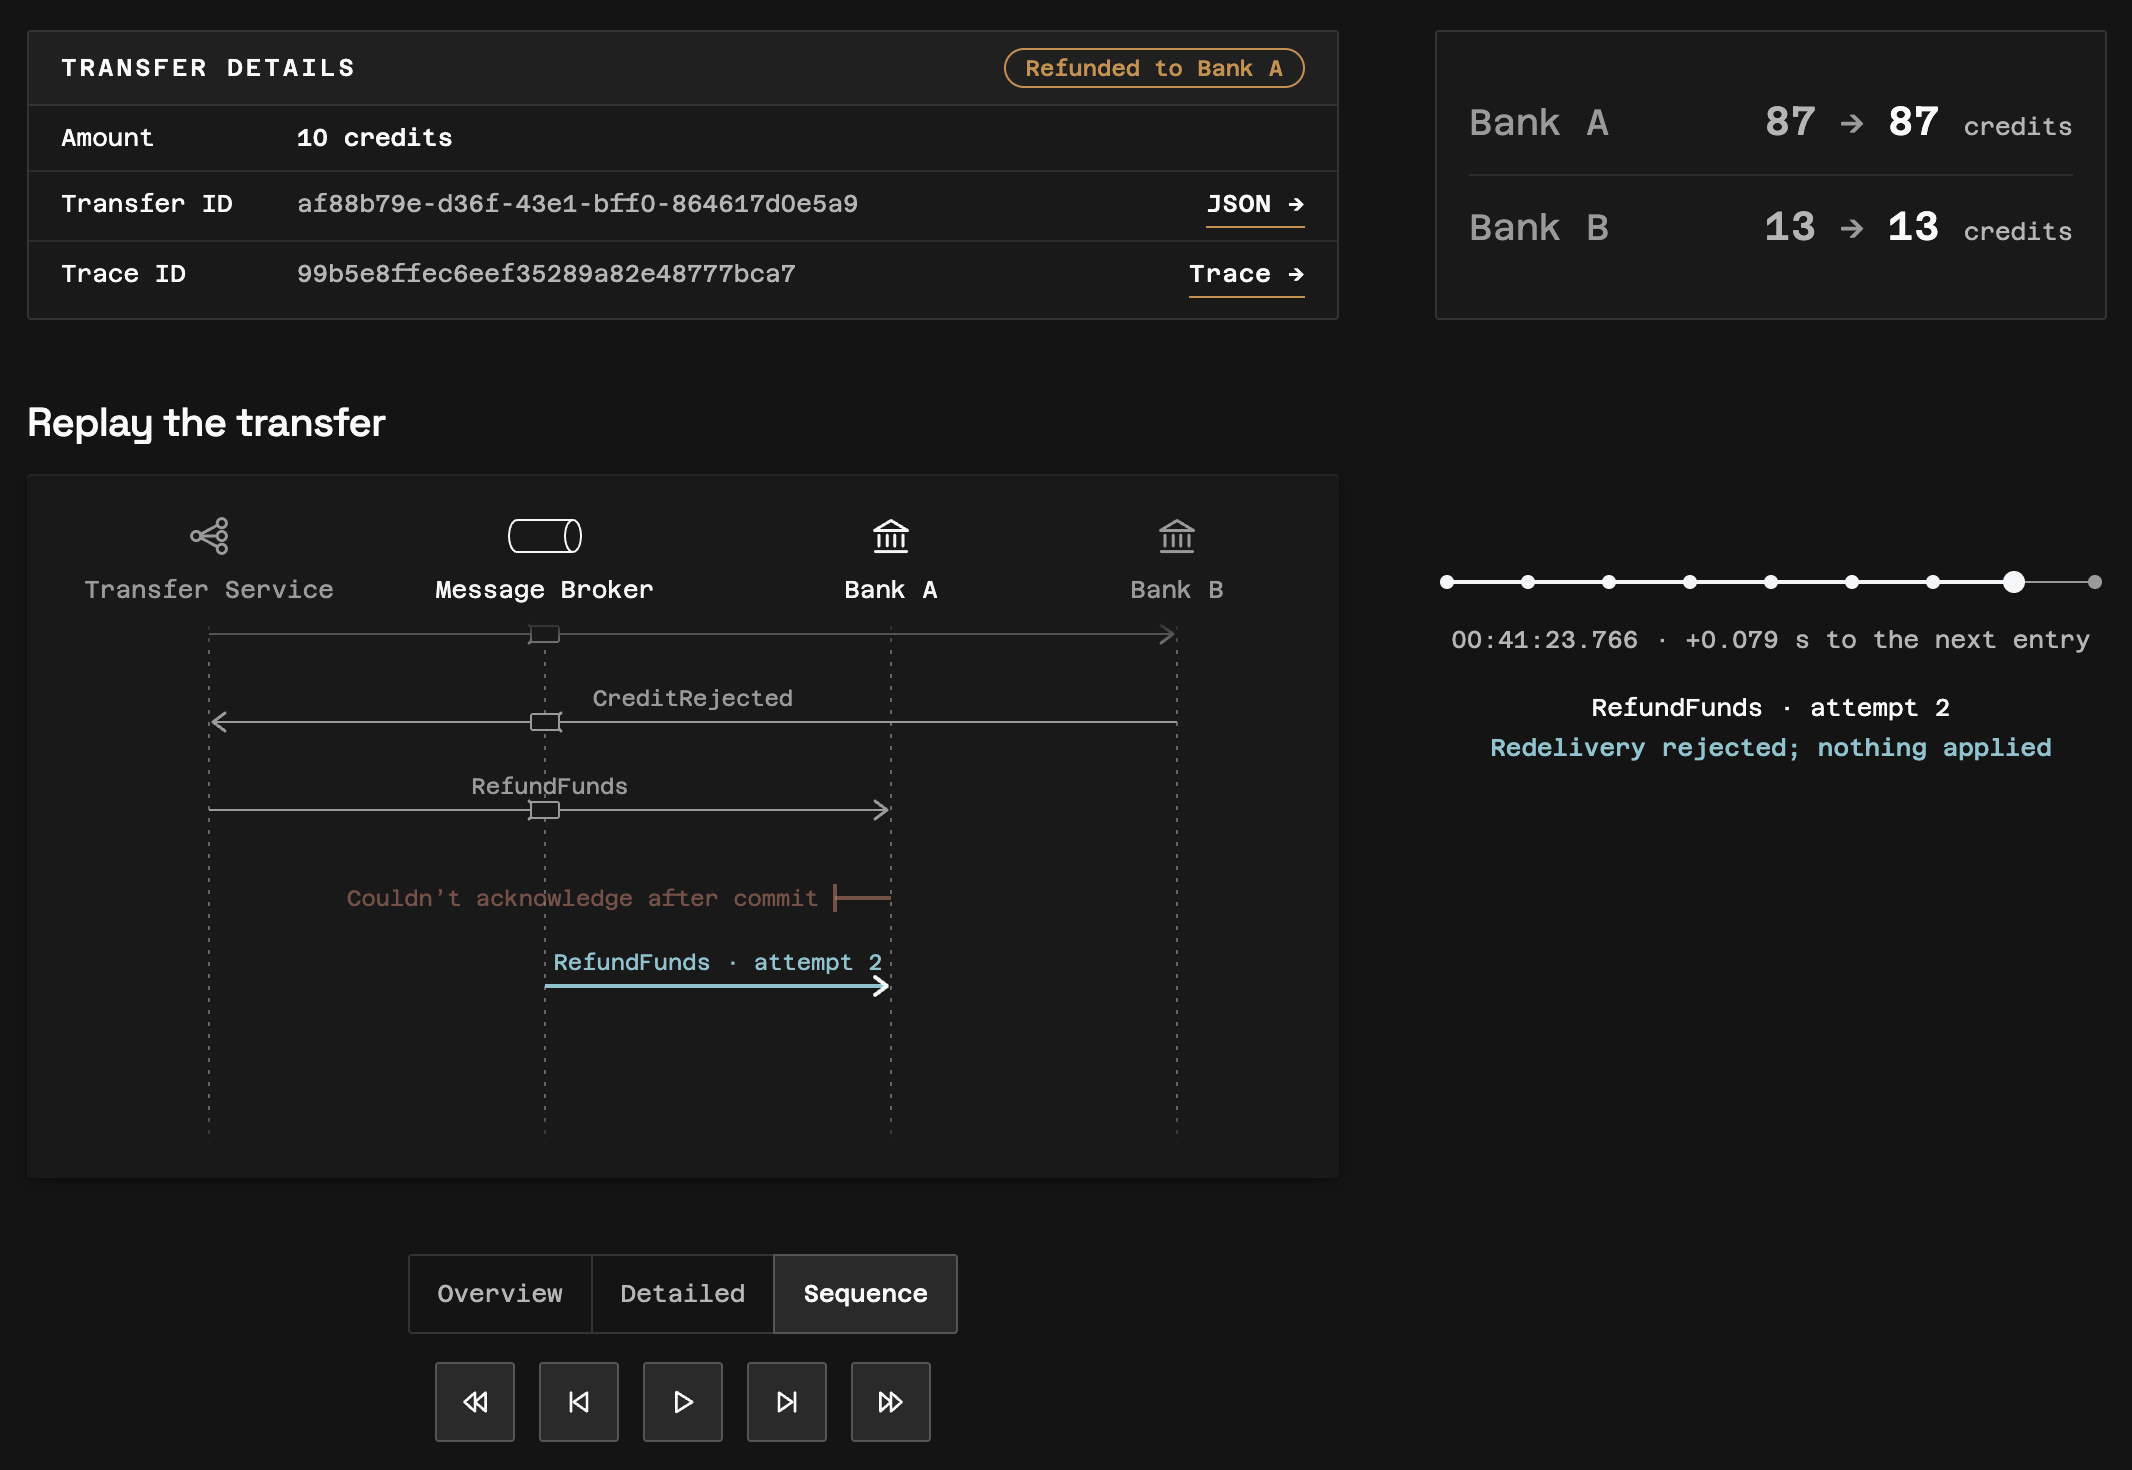
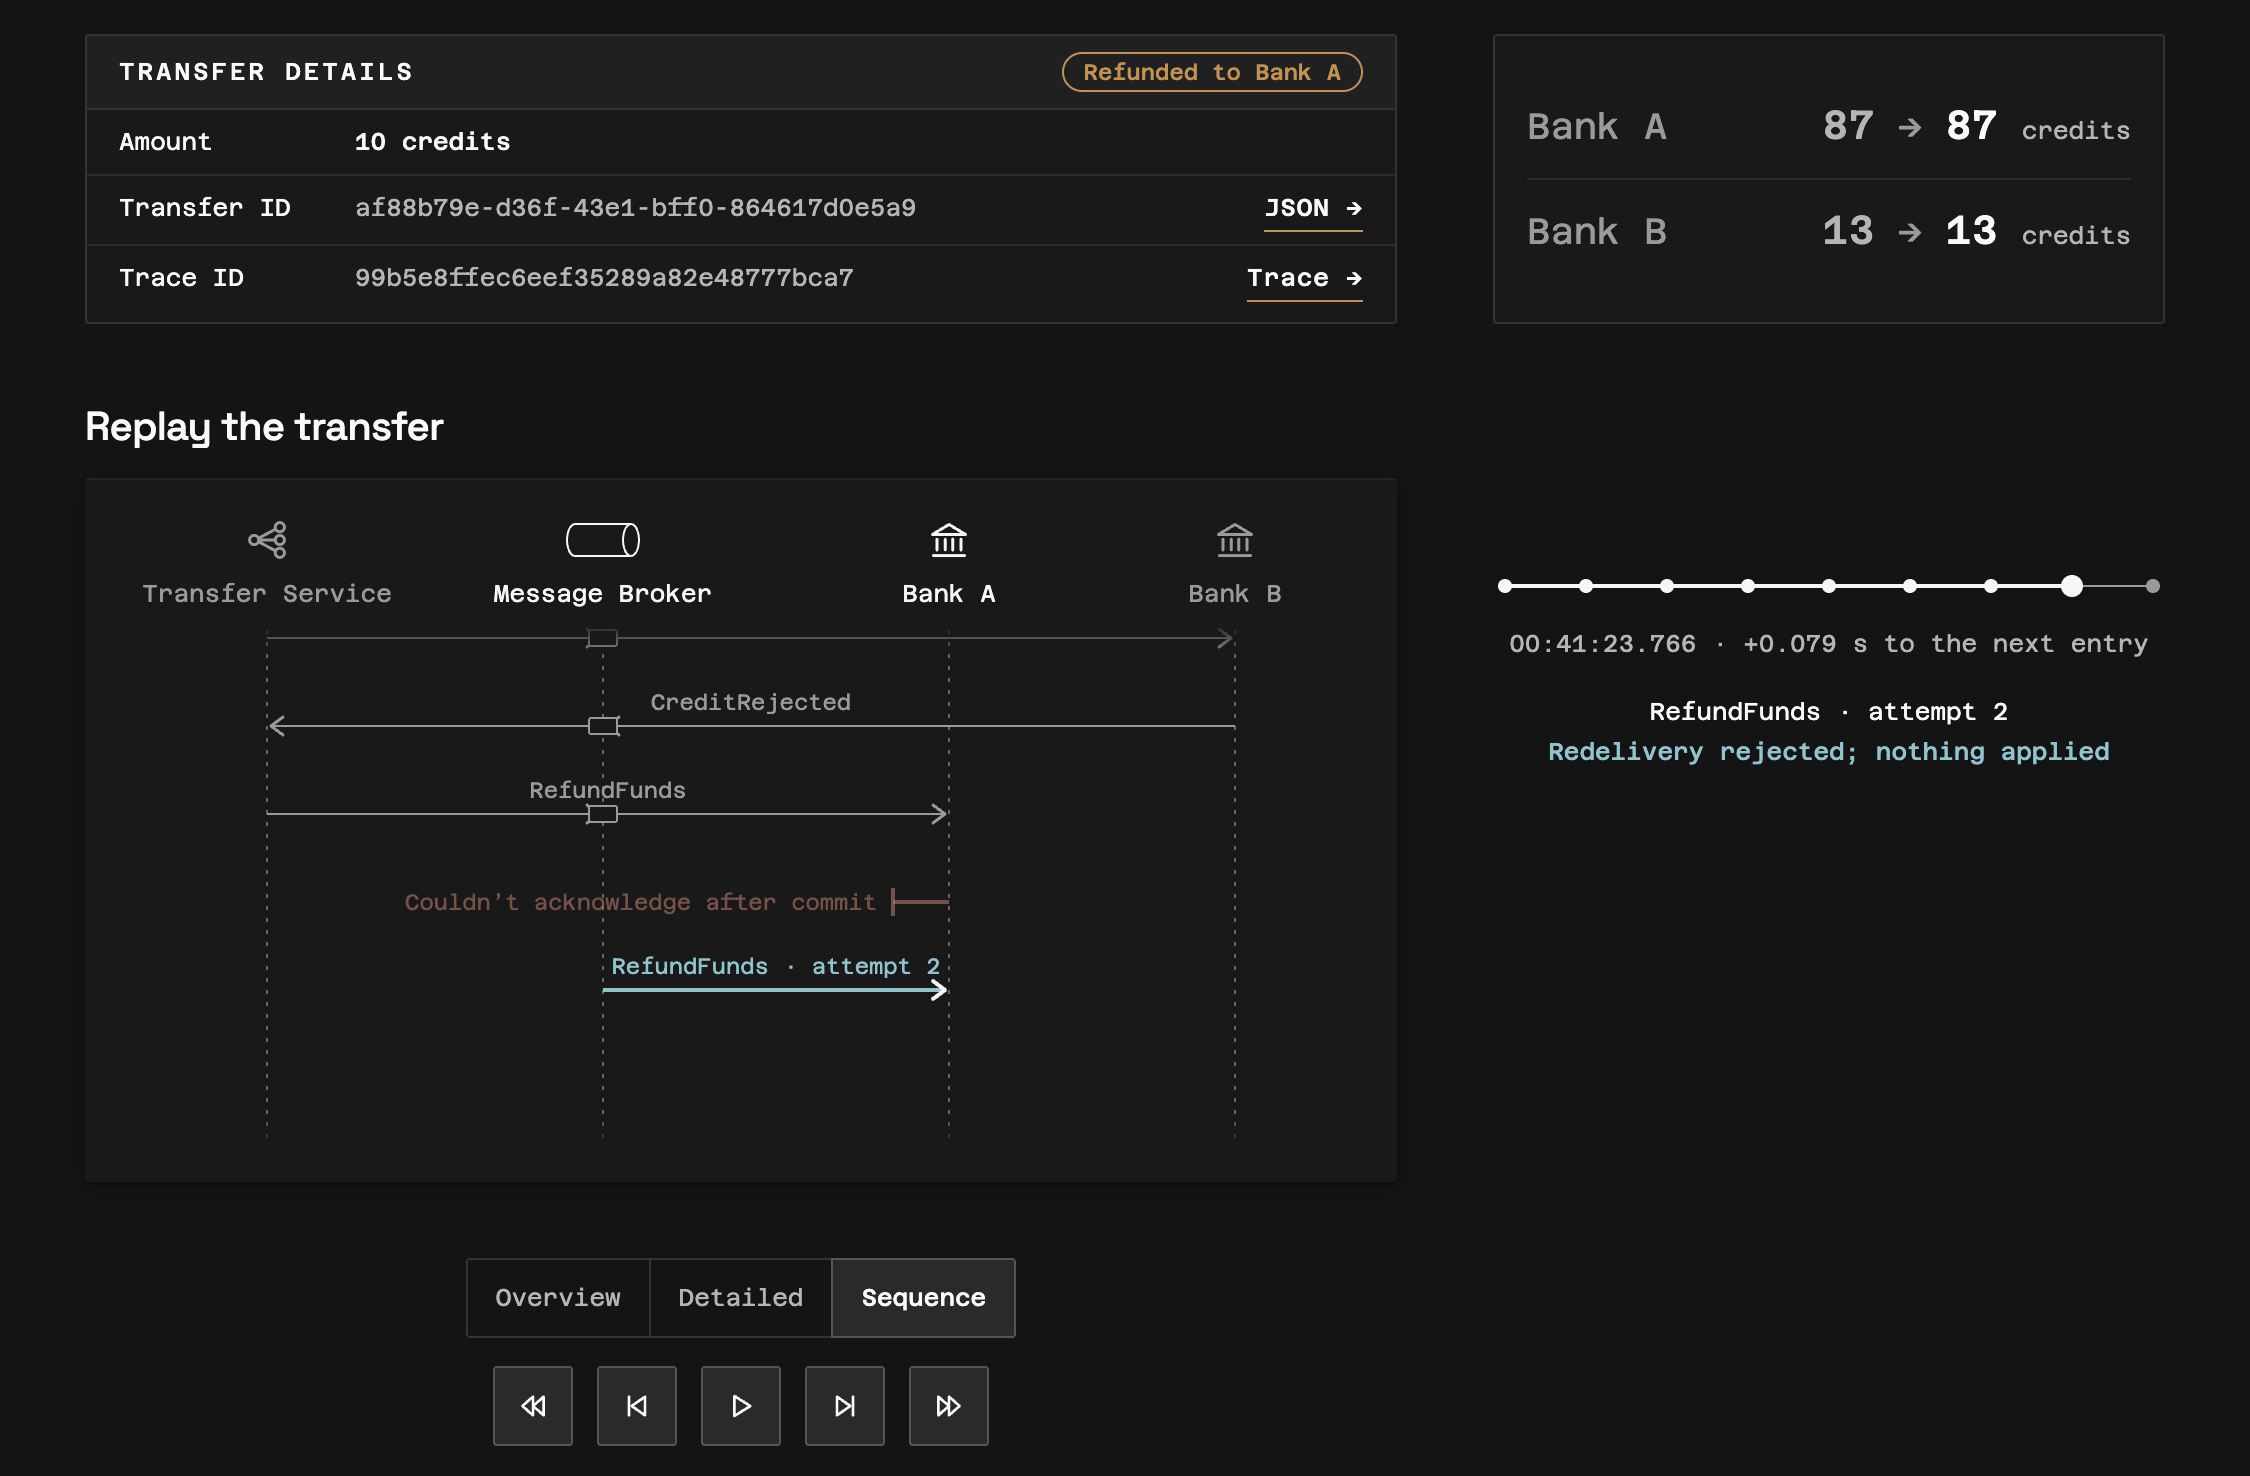
update screenshots

diff --git a/README.md b/README.md
@@ -72,6 +72,10 @@ and restores the previous deployment if any check fails. Visitors expire after
 a week unseen; terminal transfers and their histories disappear seven days
 after request time. Pending transfers are protected.
 
+<p align="center">
+  <img src="docs/assets/screenshots/grafana-dark.png" alt="Replay Screenshot" width="1080">
+</p>
+
 ## Run locally
 
 Requires Docker with Compose v2.
